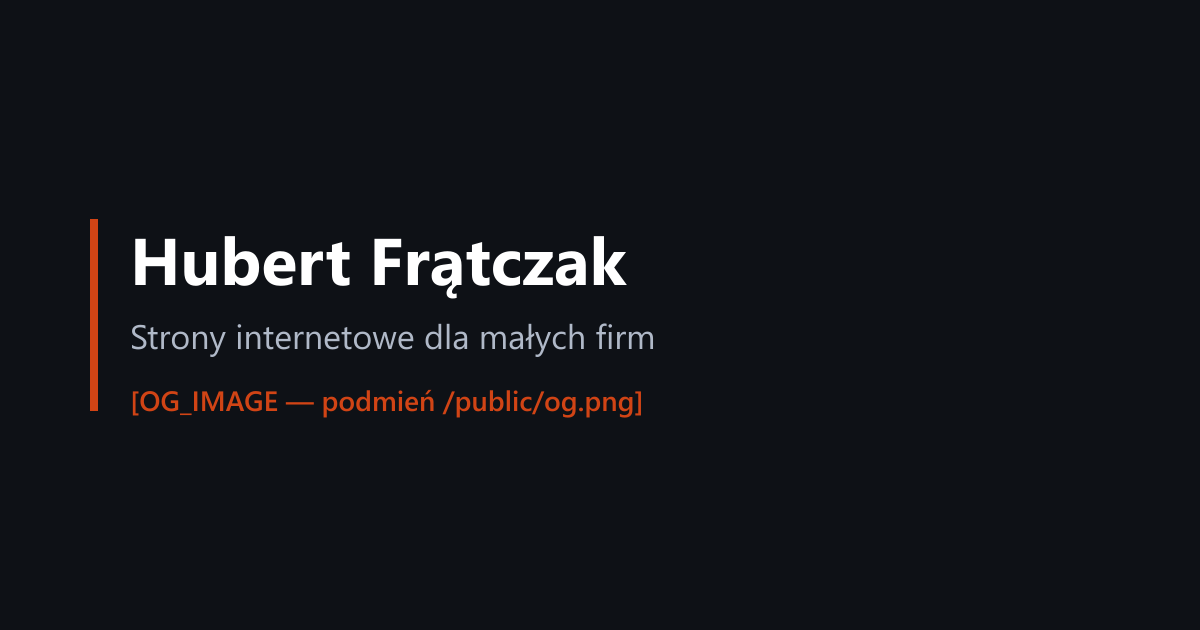
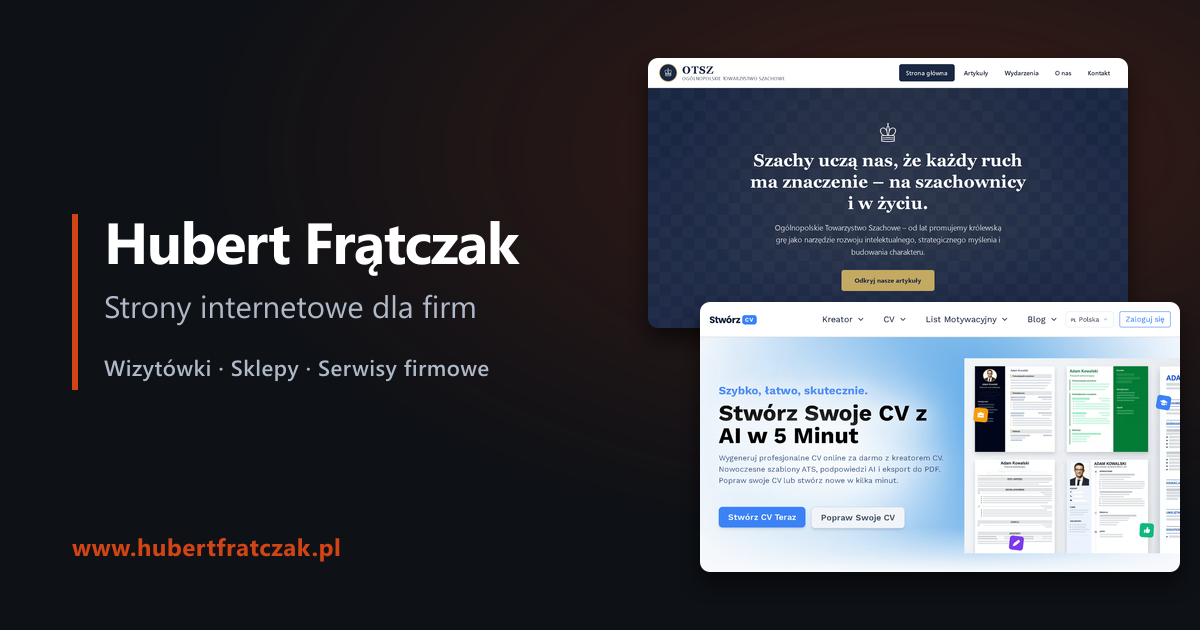
add foto

diff --git a/README.md b/README.md
@@ -22,8 +22,9 @@ Dostępne skrypty:
 | `npm run dev` | serwer developerski |
 | `npm run build` | build produkcyjny (sprawdza też typy) |
 | `npm run start` | podgląd builda produkcyjnego |
-| `npm run placeholders` | regeneruje obrazek Open Graph i ikony w `public/` |
+| `npm run placeholders` | regeneruje favicon i ikonę iOS w `public/` |
 | `npm run hero` | składa `public/hero.png` z miniatur portfolio |
+| `npm run og` | składa `public/og.png` — miniaturę do udostępniania linku |
 | `npm run screenshots` | odświeża zrzuty ekranu realizacji (patrz punkt 2) |
 
 ---
@@ -56,7 +57,7 @@ w kodzie nie trzeba zmieniać:
 | `public/hero.png` | 1200×900 | pierwszy ekran — kolaż z miniatur portfolio, generowany przez `npm run hero` |
 | `public/authorHubert.png` | 800×800 | Twoje zdjęcie w sekcji „O mnie” (już wgrane) |
 | `public/portfolio/projekt-1..3.png` | 1600×900 | miniatury realizacji (16:9) |
-| `public/og.png` | 1200×630 | podgląd przy udostępnianiu linku (Facebook, LinkedIn) |
+| `public/og.png` | 1200×630 | podgląd przy udostępnianiu linku (Facebook, LinkedIn) — generuje `npm run og` |
 | `public/favicon.svg`, `public/apple-touch-icon.png` | 64, 180 | ikona w karcie przeglądarki |
 
 Wszystkie obrazy idą przez `next/image` (automatyczna optymalizacja, WebP, lazy loading —
@@ -88,10 +89,16 @@ sekcji, a nie w połowie tekstu:
 | `projekt-2.png` | www.dariazietek.pl | viewport 1600×900 — hero na pełny ekran |
 | `projekt-3.png` | otsz.pl | viewport 1166×656 — kadr do końca granatowej sekcji hero |
 
-Na końcu skrypt składa jeszcze `public/hero.png` — kaskadę trzech okien z tych samych
-zrzutów, która stoi na pierwszym ekranie. Układ (pozycje, cień, zaokrąglenia) jest
-w [`scripts/build-hero.mjs`](scripts/build-hero.mjs); samo hero przebudujesz przez
-`npm run hero`.
+Na końcu skrypt składa jeszcze dwa obrazki z tych samych zrzutów:
+
+- `public/hero.png` — kaskadę trzech okien na pierwszy ekran ([`scripts/build-hero.mjs`](scripts/build-hero.mjs), osobno: `npm run hero`),
+- `public/og.png` — miniaturę pokazywaną przy wklejeniu linku na Facebooku, LinkedInie
+  czy w Messengerze ([`scripts/build-og.mjs`](scripts/build-og.mjs), osobno: `npm run og`).
+
+> **Po zmianie `og.png` Facebook nadal pokaże stary obrazek** — trzyma go w cache’u
+> tygodniami. Wejdź na [Facebook Sharing Debugger](https://developers.facebook.com/tools/debug/),
+> wklej adres strony i kliknij **Scrape Again**. LinkedIn ma swój odpowiednik:
+> [Post Inspector](https://www.linkedin.com/post-inspector/).
 
 Dodajesz nową realizację? Dopisz wpis w tablicy `targets` w skrypcie i w
 [`data/projects.ts`](data/projects.ts).
